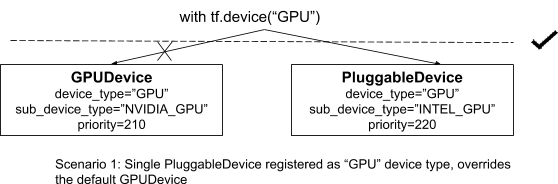
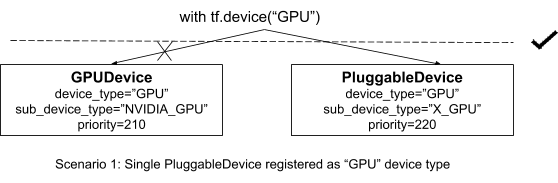
fix

diff --git a/20200624-pluggable-device-for-tensorflow.md b/20200624-pluggable-device-for-tensorflow.md
@@ -73,8 +73,8 @@ This section describes the user scenarios that are supported/unsupported for Plu
 <img src=20200624-pluggable-device-for-tensorflow/scenario4.png>
 </div>
 
-### Front-end Mirroring mechanism
-This section describes the front-end mirroring mechanism for python users, pointing at previous user scenarios.
+### Device mapping mechanism
+This section describes the device mapping mechanism for python users, pointing at previous user scenarios.
 * **Device type && Subdevice type**  
    Device type is user visible. User can specify the device type for the ops. e.g, "gpu", "xpu", "cpu". Subdevice type is user visible and user can specify which subdevice to use for the device type(mirroring), e.g.("NVIDIA_GPU", "INTEL_GPU", "AMD_GPU").
    ```
@@ -83,25 +83,30 @@ This section describes the front-end mirroring mechanism for python users, point
    >> with tf.device("/xpu:0"):
       ...
    ```
-* **Front-end mirroring** 
-   In the case of two GPUs in the same system, e.g. NVIDIA GPU + INTEL GPU and installing the Intel GPU plugin.
-  * **Option 1**
-    Only plugged gpu device is visible, PluggableDevice(INTEL GPU) overrides the default GPUDevice(NVIDIA GPU). If user want to use NVIDIA GPU, he needs to manually uninstall the plugin.
+* **Device mapping** 
+   In the case of two GPUs in the same system, e.g. NVIDIA GPU + X GPU and installing the X GPU plugin.
+  * **Option 1**: override CUDA device, only plugged GPU device visible
+    Only plugged gpu device is visible, PluggableDevice(X GPU) overrides the default GPUDevice(CUDA GPU). If users want to use CUDA GPU, they need to manually uninstall the plugin.
     ```
     >> gpu_device = tf.config.experimental.list_physical_devices(`GPU`)
     >> print(gpu_device)
-    [PhysicalDevice(name = `physical_device:GPU:0`), device_type = `GPU`, subdevice_type = `INTEL_GPU`]
+    [PhysicalDevice(name = `physical_device:GPU:0`), device_type = `GPU`, subdevice_type = `X_GPU`]
     >> with tf.device("/gpu:0"):
-    >>   .. // place ops on PluggableDevice(Intel GPU)
+    >>   .. // place ops on PluggableDevice(X GPU)
     ```
   * **Option 2**
-    Both plugged gpu device and default gpu device are visible, but only one gpu can work at the same time, plugged gpu device is default enabled, if user want to use NVIDIA GPU, he need to call mirroring API(set_sub_device_mapping()) to switch to NVIDIA gpu device.
+    Both plugged gpu device and default gpu device are visible, but only one gpu can work at the same time, plugged gpu device is default enabled, if users want to use NVIDIA GPU, they need to call device mapping API(set_sub_device_mapping()) to switch to CUDA gpu device.
    ```
     >> gpu_device = tf.config.experimental.list_physical_devices(`GPU`)
     >> print(gpu_device)
-    [PhysicalDevice(name = `physical_device:GPU:0`), device_type = `GPU`, subdevice_type = `INTEL_GPU`, enabled]
-    [PhysicalDevice(name = `physical_device:GPU:0`), device_type = `GPU`, subdevice_type = `NVIDIA_GPU`, not-enabled]
+    [PhysicalDevice(name = `physical_device:GPU:0`), device_type = `GPU`, subdevice_type = `X_GPU`, enabled]
+    [PhysicalDevice(name = `physical_device:GPU:0`), device_type = `GPU`, subdevice_type = `NVIDIA_GPU`, disabled]
     >> tf.config.set_subdevice_mapping("NVIDIA_GPU")
+    >> gpu_device = tf.config.experimental.list_physical_devices(`GPU`)
+    >> print(gpu_device)
+    [PhysicalDevice(name = `physical_device:GPU:0`), device_type = `GPU`, subdevice_type = `X_GPU`, disabled]
+    [PhysicalDevice(name = `physical_device:GPU:0`), device_type = `GPU`, subdevice_type = `NVIDIA_GPU`, enabled]
+    
     >> with tf.device("/gpu:0"):
     >>   .. // place ops on GPUDevice(NVIDIA GPU)
    ```
@@ -118,7 +123,7 @@ This section describes the front-end mirroring mechanism for python users, point
 
 Upon initialization of TensorFlow, it uses platform independent `LoadLibrary()` to load the dynamic library. The plugin library should be installed to the default plugin directory "…python_dir.../site-packages/tensorflow-plugins". The modular tensorflow [RFC](https://github.com/tensorflow/community/pull/77) describes the process of loading plugins. 
 
-During the plugin library initialization, TensorFlow proper calls the `SE_InitializePlugin` API (part of StreamExecutor C API) to retrieve nescessary informations from the plugin to instantiate a StreamExecutor platform([se::platform](https://github.com/tensorflow/tensorflow/blob/cb32cf0f0160d1f582787119d0480de3ba8b9b53/tensorflow/stream_executor/platform.h#L93) class) and registers the platform to a global object [se::MultiPlatformManager](https://github.com/tensorflow/tensorflow/blob/cb32cf0f0160d1f582787119d0480de3ba8b9b53/tensorflow/stream_executor/multi_platform_manager.h#L82), TensorFlow proper gets a device type and a subdevice type from plugin through `SE_InitializePlugin` and then registers the `PluggableDeviceFactory`with the registered device type. The device type string will be used to access PluggableDevice with tf.device() in python layer. The subdevice type is used for low-level specialization of GPU device(kernel, StreamExecutor, common runtime, grapper, placer..). If the user cares whether he is running on Intel/NVIDIA GPU, he can call python API (such as `tf.config.list_physical_devices`) to get the subdevice type for identification. user can also use `tf.config.get_device_details` to get the real device name(e.g. "TITAN V")for the specified device.  
+During the plugin library initialization, TensorFlow proper calls the `SE_InitializePlugin` API (part of StreamExecutor C API) to retrieve nescessary informations from the plugin to instantiate a StreamExecutor platform([se::platform](https://github.com/tensorflow/tensorflow/blob/cb32cf0f0160d1f582787119d0480de3ba8b9b53/tensorflow/stream_executor/platform.h#L93) class) and registers the platform to a global object [se::MultiPlatformManager](https://github.com/tensorflow/tensorflow/blob/cb32cf0f0160d1f582787119d0480de3ba8b9b53/tensorflow/stream_executor/multi_platform_manager.h#L82), TensorFlow proper gets a device type and a subdevice type from plugin through `SE_InitializePlugin` and then registers the `PluggableDeviceFactory`with the registered device type. The device type string will be used to access PluggableDevice with tf.device() in python layer. The subdevice type is used for low-level specialization of GPU device(kernel, StreamExecutor, common runtime, grapper, placer..). If the user cares whether he is running on NVIDIA GPU or X GPU(Intel GPU, Amd GPU..), he can call python API (such as `tf.config.list_physical_devices`) to get the subdevice type for identification. user can also use `tf.config.get_device_details` to get the real device name(e.g. "TITAN V")for the specified device.  
 Plugin authors need to implement `SE_InitializePlugin` and provide the necessary informations:  
 ```cpp
 void SE_InitializePlugin(SE_PlatformRegistrationParams* params, TF_Status* status) {
